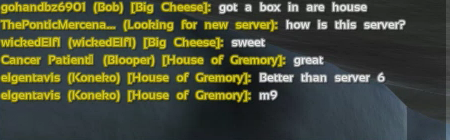
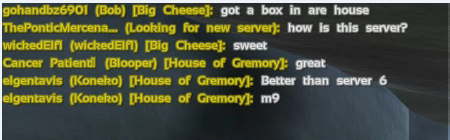
OCR Stufs

diff --git a/ArkBot/src/ArkBot.java b/ArkBot/src/ArkBot.java
@@ -74,15 +74,14 @@ public class ArkBot {
 
         //setup.Begin();
         
-        new TesseractExample();
-        
         
 //        int stacks = action.InvSearch("fiber");
 //        ms.SplitStack(global.INV_POINTS[0], stacks);
         
 	    // bot.delay(global.PAUSE);
-	    //g.Grab();
-	    //g.InvertGrab();
+	    g.Grab();
+	    g.InvertGrab();
+        new TesseractExample();
         // Setup Ark
         //setup.Begin();
 	    

diff --git a/ArkBot/src/ChatImageGrab.java b/ArkBot/src/ChatImageGrab.java
@@ -40,7 +40,7 @@ public class ChatImageGrab {
             for (int y = 0; y < inputFile.getHeight(); y++) {
                 int rgba = inputFile.getRGB(x, y);
                 Color col = new Color(rgba, true);
-                int wl = 100;
+                int wl = 182;
                 if (col.getRed() > wl && col.getGreen() > wl && col.getBlue() > wl) {
                 	col = new Color(0, 0, 0);
                 } else {

diff --git a/ArkBot/src/TesseractExample.java b/ArkBot/src/TesseractExample.java
@@ -3,7 +3,7 @@ import net.sourceforge.tess4j.*;
 
 public class TesseractExample {
 	public TesseractExample() {
-		File image = new File("ArkBotFiles\\OCRImages\\ChatImages\\asciiChatClean2.png");
+		File image = new File("ArkBotFiles\\OCRImages\\ChatImageGrab\\grabInvert.png");
 		ITesseract instance = new Tesseract();
 		
 		try {
